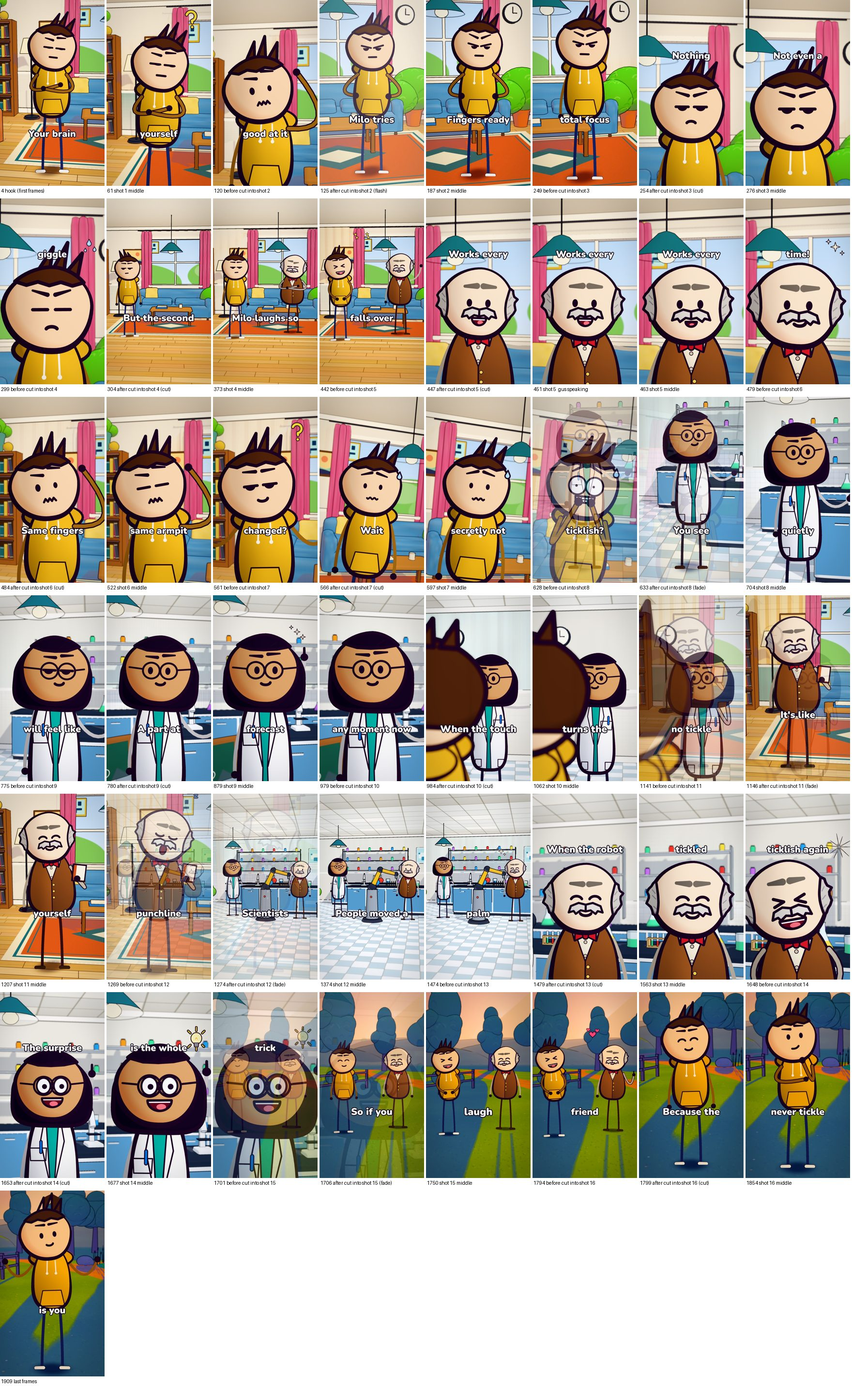
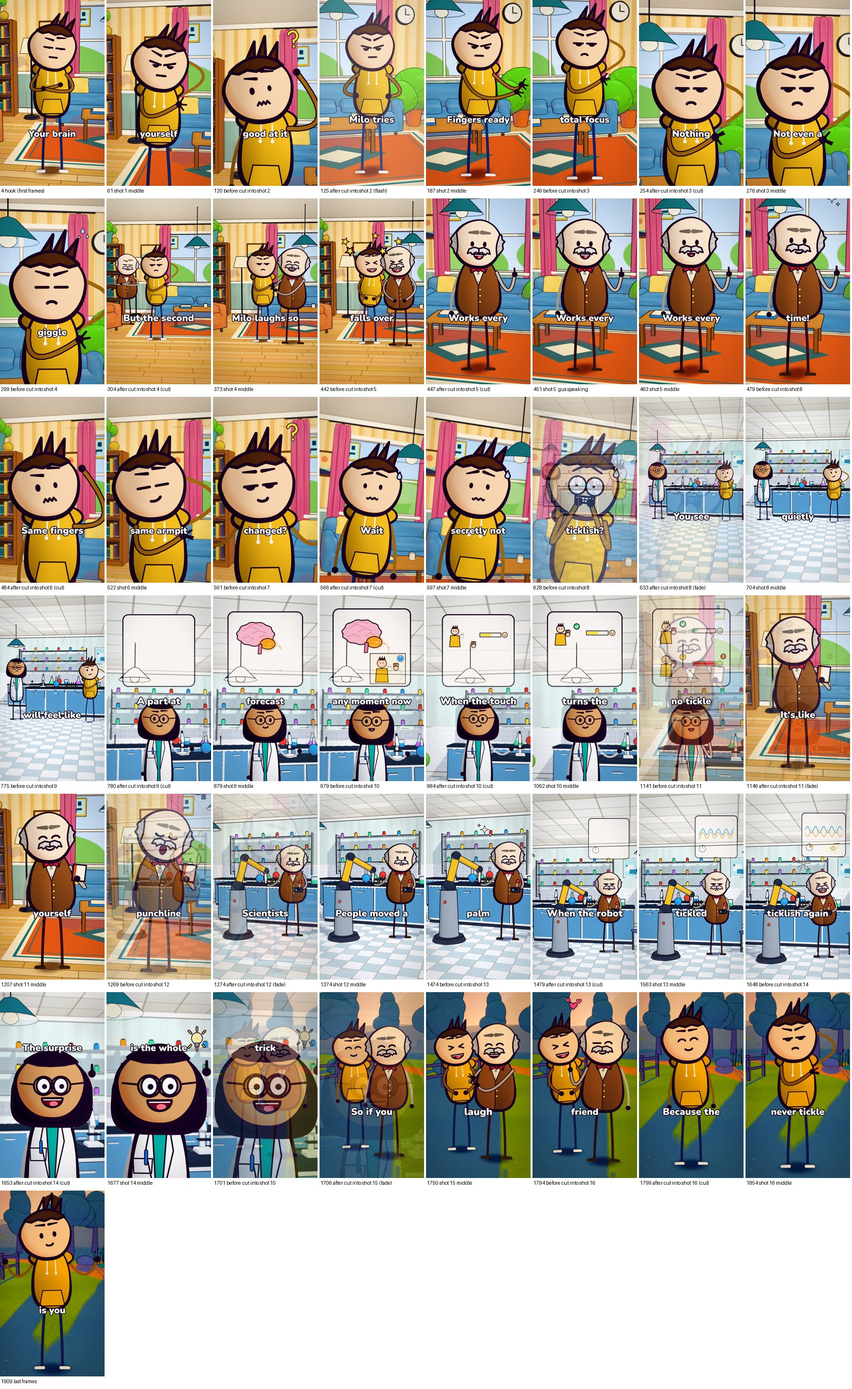
Overlay diagrams write depth (always-pass test): no scenery ink over the panel; set ceilings + diagram ceiling check
Root cause of the lamp outline showing through the forecast panel: with the depth test off WebGL
also stops depth writes, so the ink pass saw no card in front of the lamp. Overlays now use
depthFunc ALWAYS with depth writes. Interior layouts declare their ceiling height; the
validator fails a diagram that would pass through it (new negative test). Tickle panels 1.0 m.

Claude-Session: https://claude.ai/code/session_01484eGDHiQxzfJwkdTsH3cA

diff --git a/animation-studio/src/studio/stories/tickle.ts b/animation-studio/src/studio/stories/tickle.ts
@@ -61,12 +61,12 @@ export const TICKLE: Storyboard = {
     { say: "A part at the back of your brain, the cerebellum, sends out a forecast: fingers arriving at the armpit, any moment now.", set: "lab", light: "interiorCool", transition: "cut",
       camera: { move: "frame", on: ["juno", "diagram"], size: "medium", from: -8, height: 1.5 },
       actors: [{ who: "juno", at: "a", act: "explain", face: "smile", facing: "camera", beats: [{ word: "cerebellum", gesture: "present" }, { word: "fingers", gesture: "present", face: "talk" }] }],
-      diagram: { kind: "forecast", with: "juno", place: "above", size: 1.15, steps: [{ word: "brain" }, { word: "cerebellum" }, { word: "forecast" }, { word: "fingers" }, { word: "moment" }] } },
+      diagram: { kind: "forecast", with: "juno", place: "above", size: 1.0, steps: [{ word: "brain" }, { word: "cerebellum" }, { word: "forecast" }, { word: "fingers" }, { word: "moment" }] } },
     // predicted touch vs a surprise touch: your own hand is matched and turned down; someone else's is not
     { say: "When the touch lands exactly as predicted, your brain turns the feeling down. No surprise, no tickle.", set: "lab", light: "interiorCool", transition: "cut",
       camera: { move: "frame", on: ["juno", "diagram"], size: "medium", from: 8, height: 1.5 },
       actors: [{ who: "juno", at: "a", act: "explain", face: "smile", facing: "camera", beats: [{ word: "down", gesture: "present" }, { word: "surprise", gesture: "stop", face: "talk" }] }],
-      diagram: { kind: "prediction", with: "juno", place: "above", size: 1.15, steps: [{ word: "lands" }, { word: "predicted" }, { word: "down" }, { word: "surprise" }, { word: "tickle" }] } },
+      diagram: { kind: "prediction", with: "juno", place: "above", size: 1.0, steps: [{ word: "lands" }, { word: "predicted" }, { word: "down" }, { word: "surprise" }, { word: "tickle" }] } },
     // the joke you wrote yourself: Gus reads his own joke book, unmoved
     { say: "It's like hearing a joke you wrote yourself. You already know the punchline.", set: "home", light: "interior", transition: "fade",
       camera: { move: "frame", on: ["gus"], size: "full", from: 6, height: 1.45 },

diff --git a/animation-studio/src/studio/sets/layouts.ts b/animation-studio/src/studio/sets/layouts.ts
@@ -11,7 +11,8 @@ import { THEMES } from "../themes";
 const fit = (name: string, marks: V3[], o: FitOpts, extra: Partial<View> = {}): View =>
   ({ name, ...fitShot(marks, o), focus: [marks[0][0], marks[0][1] + 1.55, marks[0][2]], ...extra });
 
-export type Layout = { spots: Record<string, V3>; views: View[] };
+/** ceiling = room height (interior sets): a diagram or prop above the cast must stay below it */
+export type Layout = { spots: Record<string, V3>; views: View[]; ceiling?: number };
 const bz = -3.2;
 
 const H = { a: [-0.75, 0, 0.35] as V3, b: [0.45, 0, -0.2] as V3 };
@@ -23,6 +24,7 @@ const OT = { a: [-0.9, 0, 3.4] as V3, b: [0.2, 0, 2.9] as V3 };
 
 const BASE_LAYOUTS: Record<string, Layout> = {
   home: {
+    ceiling: 2.8,
     spots: { a: [-0.75, 0, 0.35], b: [0.45, 0, -0.2], c: [1.55, 0, 0.5], d: [2.3, 0, -0.9], armchair: [-1.55, 0, 0.35], door: [-2.6, 0, 0.2], window: [1.6, 0, -1.3], kitchen: [2.3, 0, -0.9] },
     views: [
       { name: "wide", pos: [0.45, 1.35, 5.7], look: [0.1, 0.95, -1.2], fov: 52 },
@@ -32,6 +34,7 @@ const BASE_LAYOUTS: Record<string, Layout> = {
     ],
   },
   classroom: {
+    ceiling: 3.0,
     spots: { a: [-0.45, 0, bz + 0.95], b: [0.65, 0, bz + 1.1], c: [2.9, 0, -0.4], board: [-0.45, 0, bz + 0.95], teacherDesk: [-2.0, 0, bz + 2.0], aisle: [0.5, 0, 0.35], door: [3.2, 0, 1.6] },
     views: [
       { name: "wide", pos: [3.0, 1.75, 5.0], look: [-0.4, 1.25, -2.4], fov: 50 },
@@ -41,6 +44,7 @@ const BASE_LAYOUTS: Record<string, Layout> = {
     ],
   },
   office: {
+    ceiling: 2.9,
     spots: { a: [-0.9, 0, 0.5], b: [0.6, 0, 0.2], c: [2.6, 0, 0.9], whiteboard: [2.6, 0, 0.9], cooler: [3.0, 0, bz + 1.2], door: [-3.2, 0, 0.4], window: [0.0, 0, -2.4] },
     views: [
       { name: "wide", pos: [-0.6, 1.6, 5.0], look: [0.2, 1.2, -1.8], fov: 50 },
@@ -50,6 +54,7 @@ const BASE_LAYOUTS: Record<string, Layout> = {
     ],
   },
   lab: {
+    ceiling: 3.0,
     spots: { a: [-1.2, 0, 0.45], b: [0.95, 0, 0.6], c: [2.5, 0, -1.4], bench: [-0.9, 0, bz + 1.25], island: [0.2, 0, 0.35], hood: [2.5, 0, -1.4] },
     views: [
       { name: "wide", pos: [0.6, 1.65, 5.6], look: [-0.3, 1.2, -1.8], fov: 52 },

diff --git a/animation-studio/src/studio/story/validate.ts b/animation-studio/src/studio/story/validate.ts
@@ -17,7 +17,7 @@ import { MOODS, AMBIENCES, SFX } from "../sound/catalog";
 import { PROPS } from "../props/registry";
 import { ITEMS } from "../characters/items";
 import { clearAt, hasFloorMap } from "../sets/floor";
-import { whereOf } from "./compile";
+import { whereOf, DIAGRAM_ABOVE } from "./compile";
 import { DIAGRAM_KINDS } from "../fx/diagrams";
 import type { Stage, CamInfo } from "../cards/cards";
 
@@ -80,6 +80,8 @@ export const validate = (sb0: Storyboard, narr?: Narration): Report => {
     if (s.diagram) {
       if (!DIAGRAM_KINDS.includes(s.diagram.kind)) errors.push(`${at}: unknown diagram "${s.diagram.kind}" (diagrams: ${DIAGRAM_KINDS.join(", ")})`);
       if (!s.actors.some((x) => x.who === s.diagram!.with)) errors.push(`${at}: the diagram is presented by "${s.diagram.with}" who is not in the shot`);
+      const ceil = LAYOUTS[s.set].ceiling, top = (s.diagram.place === "above" ? DIAGRAM_ABOVE + (s.diagram.size ?? 0.95) : 1.42 + (s.diagram.size ?? 0.95) / 2);
+      if (ceil !== undefined && top > ceil - 0.04) errors.push(`${at}: the diagram reaches ${top.toFixed(2)} m, through the ${ceil} m ceiling: make it smaller (size)`);
     }
     if (s.mood && !(s.mood in MOODS)) errors.push(`${at}: unknown music mood "${s.mood}" (moods: ${Object.keys(MOODS).join(", ")})`);
     if (s.ambience && !(s.ambience in AMBIENCES)) errors.push(`${at}: unknown ambience "${s.ambience}" (beds: ${Object.keys(AMBIENCES).join(", ")})`);

diff --git a/animation-studio/scripts/storyboard-test.ts b/animation-studio/scripts/storyboard-test.ts
@@ -58,6 +58,7 @@ const broken: [string, (sb: Storyboard) => void, string?][] = [
   ["effect off screen", (sb) => { sb.shots[0].camera = { move: "closeUp", on: "gus" }; sb.shots[0].fx = [{ kind: "idea", on: "milo", t: 0.5 }]; }, "off screen"],
   ["face hidden", (sb) => { sb.shots[0].camera = { move: "frame", on: ["gus"], size: "full" }; sb.shots[0].actors[1].at = [1.35, 0.15, -4.4]; }, "hidden"],
   ["diagram cut by frame", (sb) => { sb.shots[2].diagram = { kind: "forecast", with: "juno", side: 1 }; }, "diagram"],
+  ["diagram through ceiling", (sb) => { sb.shots[2].diagram = { kind: "forecast", with: "juno", place: "above", size: 1.5 }; sb.shots[2].camera = { move: "frame", on: ["juno", "diagram"], size: "medium" }; }, "ceiling"],
   ["robot can't reach", (sb) => { sb.shots[2].actors[0].gesture = "operate"; delete sb.shots[2].actors[0].act; sb.shots[2].props = [{ id: "robotArm", at: [-3.5, 0, -2.5], follow: { who: "juno" } }]; sb.shots[2].camera = { move: "frame", on: ["juno", "robotArm"], size: "full" }; }, "reach"],
 ];
 console.log("\n== validator catches mistakes");

diff --git a/animation-studio/src/studio/cards/cards.ts b/animation-studio/src/studio/cards/cards.ts
@@ -87,7 +87,9 @@ export class Fx {
     this.soft = new THREE.MeshBasicMaterial({ map: blank, transparent: true, depthWrite: false, side: THREE.DoubleSide });
     this.blob = blobMaterial(blank);
     // overlay cards (explainer diagrams) draw on top of the set: a ceiling or a shelf never cuts them
-    this.over = new THREE.MeshBasicMaterial({ map: blank, alphaTest: 0.5, side: THREE.DoubleSide, depthTest: false, depthWrite: false });
+    // it writes its own depth (drawn last; depth test ALWAYS passes: in WebGL, turning the depth test off would also
+    // stop depth writes): the ink pass skips lines behind it and the lens blur sees the panel at its real distance
+    this.over = new THREE.MeshBasicMaterial({ map: blank, alphaTest: 0.5, side: THREE.DoubleSide, depthTest: true, depthWrite: true, depthFunc: THREE.AlwaysDepth });
     this.mesh = new THREE.Mesh(CARD, this.mat);
     this.mesh.visible = false; this.mesh.layers.set(NOINK);
     parent.add(this.mesh);

diff --git a/animation-studio/src/studio/story/compile.ts b/animation-studio/src/studio/story/compile.ts
@@ -58,7 +58,7 @@ export const diagramMark = (s: ShotSpec): V3 | undefined => {
   return [p[0] + Math.cos(ar) * off, p[1], p[2] - Math.sin(ar) * off];
 };
 /** a diagram's centre height above its floor point: at head height beside the presenter, or just above their head */
-export const DIAGRAM_ABOVE = 1.98;
+export const DIAGRAM_ABOVE = 1.94;
 export const diagramY = (s: ShotSpec) => (s.diagram?.place === "above" ? DIAGRAM_ABOVE + (s.diagram.size ?? 0.95) / 2 : 1.42);
 
 /** camera spec -> library move, naming actors instead of coordinates (framed where they settle) */
